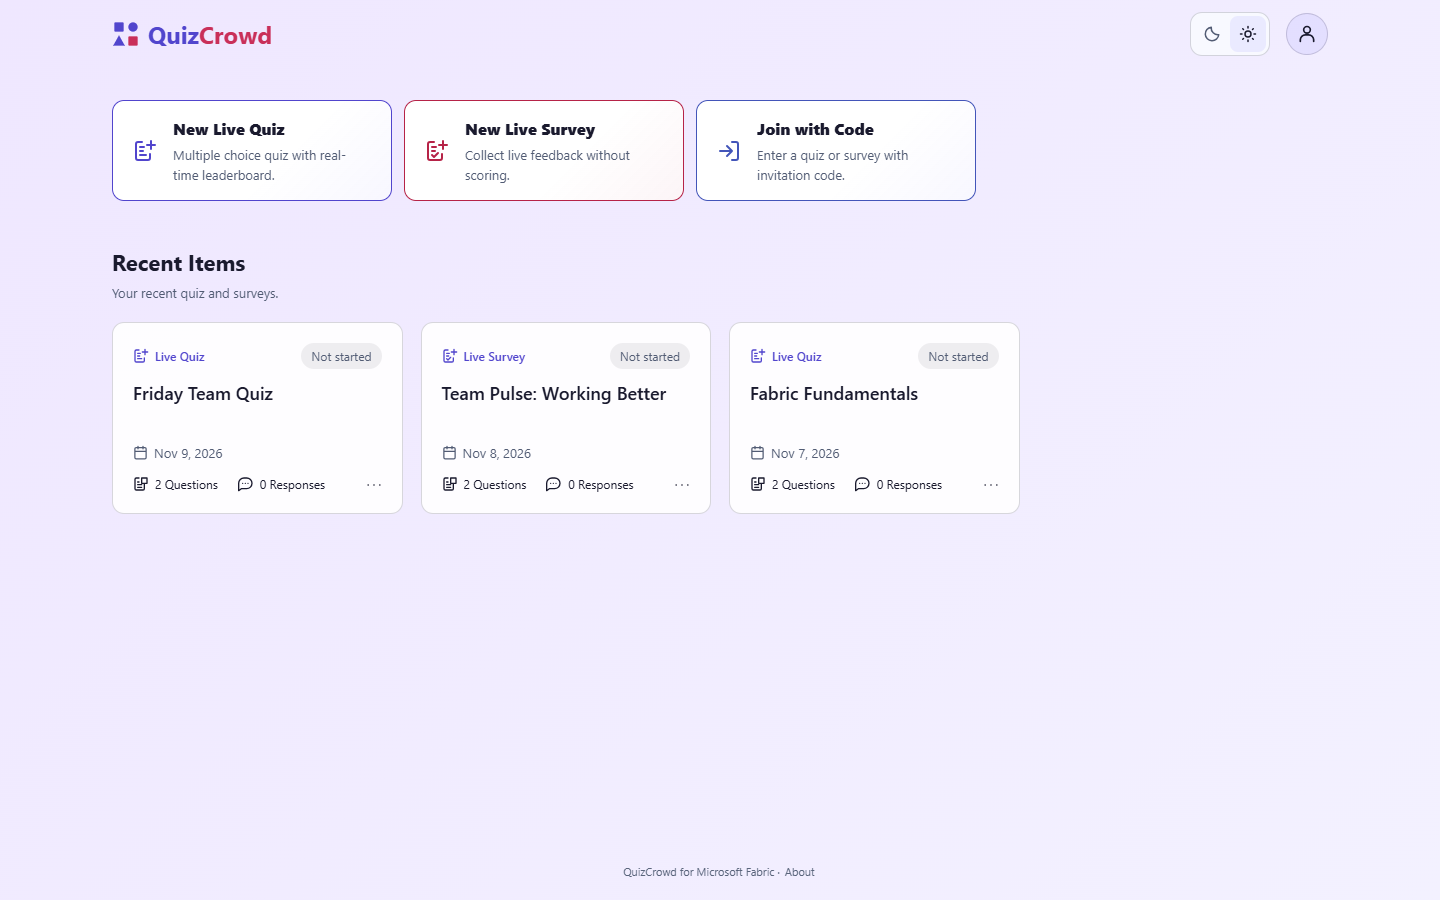
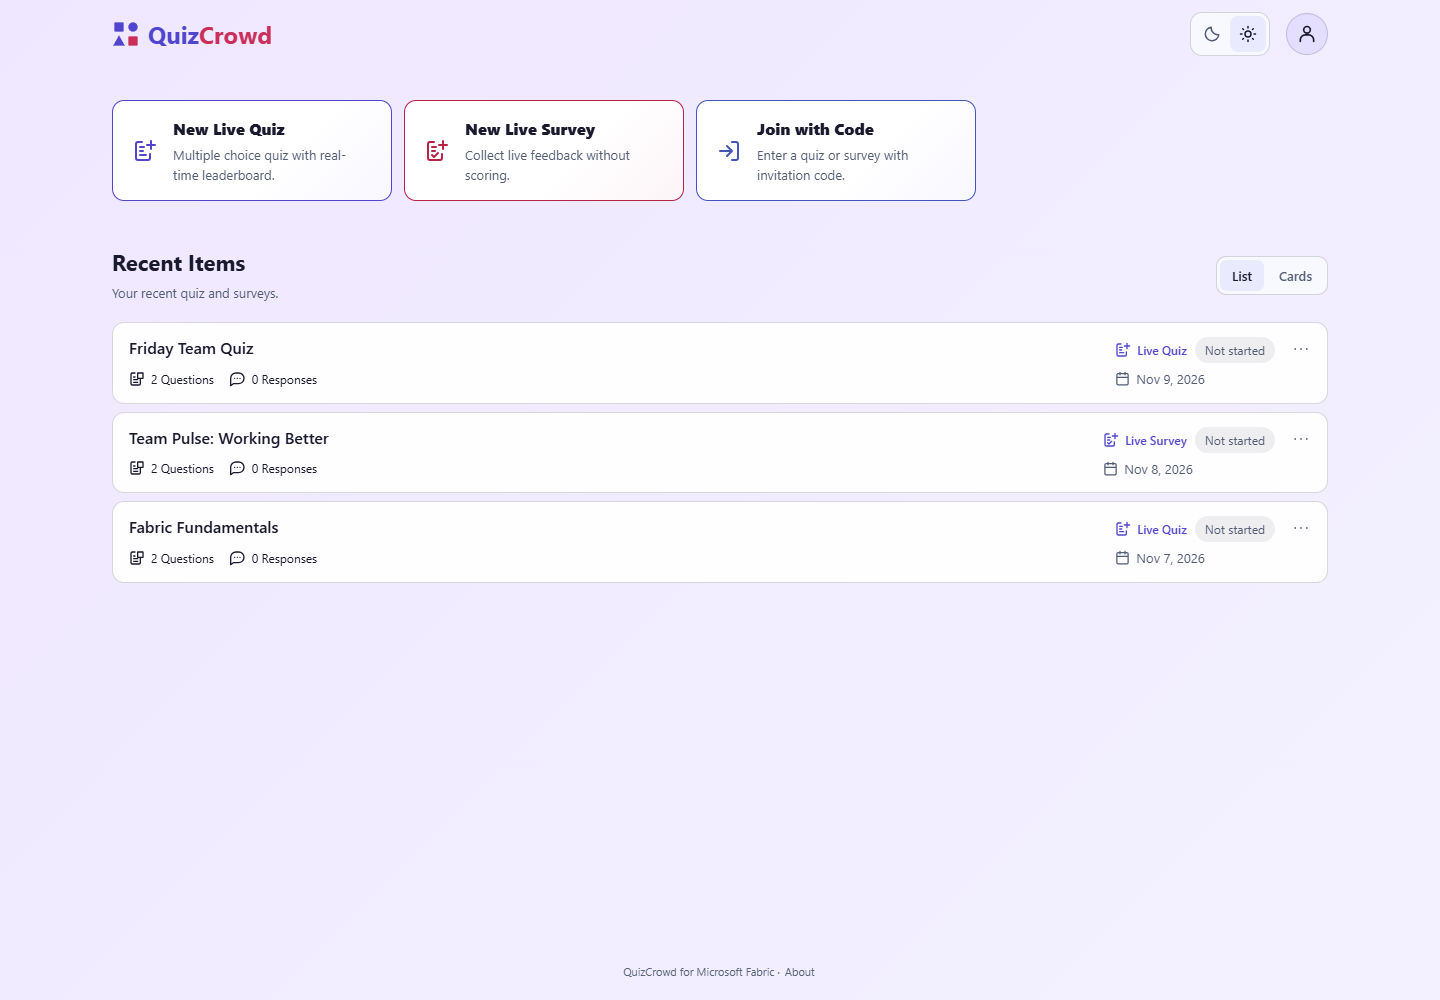
Add compact default list view for recent items

diff --git a/packages/frontend/src/components/SessionLibrary.tsx b/packages/frontend/src/components/SessionLibrary.tsx
@@ -1,3 +1,4 @@
+import { useState } from 'react';
 import type { QuizSummary } from '@rayfin-app/shared';
 import { Icon } from './Icon';
 const status: Record<QuizSummary['phase'], string> = { lobby: 'Not started', question: 'In progress', reveal: 'Showing results', leaderboard: 'Leaderboard', finished: 'Finished' };
@@ -6,13 +7,30 @@ export function SessionLibrary({ quizzes, loadState, busy, onOpen, onDuplicate, 
   quizzes: QuizSummary[]; loadState: 'loading' | 'ready' | 'error'; busy: boolean;
   onOpen(quiz: QuizSummary): void; onDuplicate(id: string): void; onDelete(id: string): void;
 }) {
+  const [layout, setLayout] = useState<'list' | 'cards'>(() => {
+    try { return localStorage.getItem('quizcrowd-recent-layout') === 'cards' ? 'cards' : 'list'; }
+    catch { return 'list'; }
+  });
+  const [storageError, setStorageError] = useState(false);
+  function chooseLayout(next: 'list' | 'cards') {
+    setLayout(next);
+    try { localStorage.setItem('quizcrowd-recent-layout', next); setStorageError(false); }
+    catch { setStorageError(true); }
+  }
+  const collectionClass = layout === 'list' ? 'session-grid session-list' : 'session-grid';
   return <section className="recent-sessions" aria-labelledby="recent-heading" aria-busy={loadState === 'loading'}>
-    <div className="recent-heading"><h2 id="recent-heading">Recent Items</h2><p className="small muted">Your recent quiz and surveys.</p></div>
+    <div className="recent-heading"><div><h2 id="recent-heading">Recent Items</h2><p className="small muted">Your recent quiz and surveys.</p></div>
+      <div className="recent-layout" role="group" aria-label="Recent items view">
+        <button type="button" aria-pressed={layout === 'list'} onClick={() => chooseLayout('list')}>List</button>
+        <button type="button" aria-pressed={layout === 'cards'} onClick={() => chooseLayout('cards')}>Cards</button>
+      </div>
+    </div>
+    {storageError && <p className="small muted" role="status">Browser storage is unavailable. Your recent items view will reset on reload.</p>}
     {loadState === 'loading' ? <div role="status" className="library-loading"><span className="sr-only">Loading recent items...</span>
-      <div className="session-grid" aria-hidden="true">{[0, 1, 2].map(index => <div key={index} className="card session-placeholder"><span /><span /><span /></div>)}</div>
+      <div className={collectionClass} aria-hidden="true">{[0, 1, 2].map(index => <div key={index} className="card session-placeholder"><span /><span /><span /></div>)}</div>
     </div> : loadState === 'error' ? <p className="muted">Recent items could not be loaded.</p> : <>
     {!quizzes.length && <div className="card empty-library"><p className="muted">No recent items</p></div>}
-    <div className="session-grid">{quizzes.map((quiz) => <article className="card session-card" key={quiz.id}>
+    <div className={collectionClass}>{quizzes.map((quiz) => <article className="card session-card" key={quiz.id}>
       <button className="session-open" disabled={busy} aria-label={`${quiz.readOnly ? 'View' : 'Open'} ${quiz.title}`} aria-describedby={`status-${quiz.id} date-${quiz.id} metrics-${quiz.id}`} onClick={() => onOpen(quiz)}>
         <span className="session-card-heading"><span className="session-type"><Icon name={quiz.mode === 'quiz' ? 'quiz' : 'survey'} />{quiz.mode === 'quiz' ? 'Live Quiz' : 'Live Survey'}</span><span id={`status-${quiz.id}`} className={`badge phase-${quiz.phase}`}>{status[quiz.phase]}</span></span>
         <span className="session-title">{quiz.title}</span>

diff --git a/packages/frontend/src/global.css b/packages/frontend/src/global.css
@@ -181,7 +181,10 @@ button.text-button { border: 0; padding: 8px 0; color: var(--qc-primary-text); b
 .join-code-button { background: var(--forms-surface); border-color: var(--forms-border); color: var(--qc-text); }
 .toolbar-actions button, .join-code-button, .editor-actions button, .author .text-button { display: inline-flex; align-items: center; justify-content: center; gap: 8px; }
 .home-signin p { margin-top: 16px; }
-.recent-heading { margin-bottom: 20px; }
+.recent-heading { margin-bottom: 20px; display: flex; align-items: center; justify-content: space-between; gap: 12px; flex-wrap: wrap; }
+.recent-layout { display: inline-flex; gap: 3px; padding: 3px; border: 1px solid var(--qc-border); border-radius: 10px; background: var(--qc-input); }
+.recent-layout button { padding: 6px 12px; font-size: 13px; border: 0; border-radius: 7px; background: transparent; color: var(--qc-muted); }
+.recent-layout button[aria-pressed="true"] { background: var(--qc-primary-soft); color: var(--qc-text); }
 .forms-home .recent-sessions { margin-top: 48px; }
 .recent-heading h2 { font-size: 22px; margin-bottom: 6px; }
 .session-grid { display: grid; grid-template-columns: repeat(auto-fill, minmax(270px, 1fr)); gap: 18px; }
@@ -209,6 +212,24 @@ button.text-button { border: 0; padding: 8px 0; color: var(--qc-primary-text); b
 .session-menu-items { position: absolute; right: 0; bottom: 36px; z-index: 4; width: 160px; padding: 4px; background: var(--forms-surface); border: 1px solid var(--forms-border); border-radius: 8px; box-shadow: var(--qc-shadow); }
 .session-menu-items button { display: flex; align-items: center; gap: 10px; width: 100%; text-align: left; border: 0; border-radius: 4px; background: transparent; }
 .session-menu-items button:hover { background: var(--forms-soft); }
+.session-list { grid-template-columns: minmax(0, 1fr); gap: 8px; }
+.session-list .session-open { display: grid; grid-template-columns: minmax(0, 1fr) auto; gap: 6px 20px; padding: 14px 52px 14px 16px; }
+.session-list .session-card-heading { grid-column: 2; grid-row: 1; justify-content: flex-end; flex-wrap: wrap; }
+.session-list .session-title { min-height: 0; font-size: 16px; grid-column: 1; grid-row: 1; }
+.session-list .session-date { grid-column: 2; grid-row: 2; }
+.session-list .session-metrics { grid-column: 1; grid-row: 2; padding-right: 0; gap: 16px; }
+.session-list .session-card-actions { top: 10px; bottom: auto; right: 10px; }
+.session-list .session-menu-items { top: 36px; bottom: auto; }
+.session-list .session-placeholder { min-height: 100px; gap: 10px; padding: 14px 16px; }
+.session-list .session-placeholder span { height: 12px; width: 30%; }
+.session-list .session-placeholder span:nth-child(2) { width: 65%; height: 18px; }
+@media (max-width: 600px) {
+  .session-list .session-open { grid-template-columns: minmax(0, 1fr); gap: 8px; }
+  .session-list .session-card-heading { grid-column: 1; grid-row: 1; justify-content: flex-start; }
+  .session-list .session-title { grid-row: 2; }
+  .session-list .session-date { grid-column: 1; grid-row: 3; }
+  .session-list .session-metrics { grid-row: 4; gap: 8px 14px; }
+}
 .delete-action { color: var(--qc-muted); }
 .delete-action:hover:not(:disabled), .delete-action:focus-visible:not(:disabled) { color: var(--qc-danger); }
 .centered-page { flex: 1; display: flex; justify-content: center; align-items: center; }

diff --git a/tests/ui.test.ts b/tests/ui.test.ts
@@ -329,6 +329,10 @@ describe('original QuizCrowd screen structure with Fabric authorization controls
     const loading = ui.renderLibrary('loading'), ready = ui.renderLibrary('ready'), failed = ui.renderLibrary('error');
     expect(loading).toContain('aria-busy="true"');
     expect(loading).toContain('Loading recent items...');
+    expect(loading).toContain('class="session-grid session-list"');
+    expect(loading).toContain('aria-label="Recent items view"');
+    expect(loading).toContain('aria-pressed="true">List</button>');
+    expect(loading).toContain('aria-pressed="false">Cards</button>');
     expect(loading.match(/class="card session-placeholder"/g)).toHaveLength(3);
     expect(loading).not.toContain('No recent items');
     expect(ready).toContain('No recent items');

diff --git a/docs/ui.md b/docs/ui.md
@@ -201,6 +201,15 @@ No fullscreen is entered automatically and no screen-size equality heuristic is
 used. Browser/embedded hosts that expose none of these signals cannot reliably
 report browser-controlled fullscreen to page code, so their F11 detection is best effort.
 
+Recent Items defaults to a compact List view. The List / Cards control beside
+the heading retains an explicit choice in browser storage; missing or invalid
+preferences default to List. If storage is blocked, switching still works for
+the current visit and a notice explains that the choice cannot be saved.
+Both views share the same metadata, open action and owner action menu. Rows
+wrap on narrow screens, including long titles, without horizontal scrolling.
+Cards retain their existing appearance. Loading placeholders follow the
+selected layout; empty and error states remain distinct.
+
 Recent Items starts in an explicit loading state with three noninteractive,
 screen-reader-hidden placeholder cards and an accessible loading status.
 It is separated from home actions by a 48px gap, reduced to 40px on mobile.
@@ -587,6 +596,8 @@ To regenerate only those curated repository images in an isolated local Edge:
 ```powershell
 $env:QUIZCROWD_UI_FILTER = 'polished showcase'
 $env:QUIZCROWD_UPDATE_SHOWCASE = '1'
+node tests\ui-browser.mjs
+$env:QUIZCROWD_UI_FILTER = 'recent layouts'
 node tests\ui-browser.mjs
 Remove-Item Env:\QUIZCROWD_UI_FILTER, Env:\QUIZCROWD_UPDATE_SHOWCASE
 ```

diff --git a/README.md b/README.md
@@ -149,7 +149,12 @@ examples**, not live Fabric test evidence. Names, scores and feedback are
 fictional. Survey results and written feedback appear only to the session owner;
 attendees see their own response acknowledgement and a completion message.
 
-![Home with colored quiz, survey and invitation actions and fictional recent sessions](docs/images/home-desktop.png)
+Recent Items opens as a compact list. Switch to Cards beside the heading to
+restore the card layout; your browser remembers the choice.
+
+![Home with the default compact recent items list and fictional sessions](docs/images/home-desktop.png)
+
+[See the alternative Cards view](docs/images/home-desktop-cards.png).
 
 | Desktop host | Mobile attendee |
 | --- | --- |
